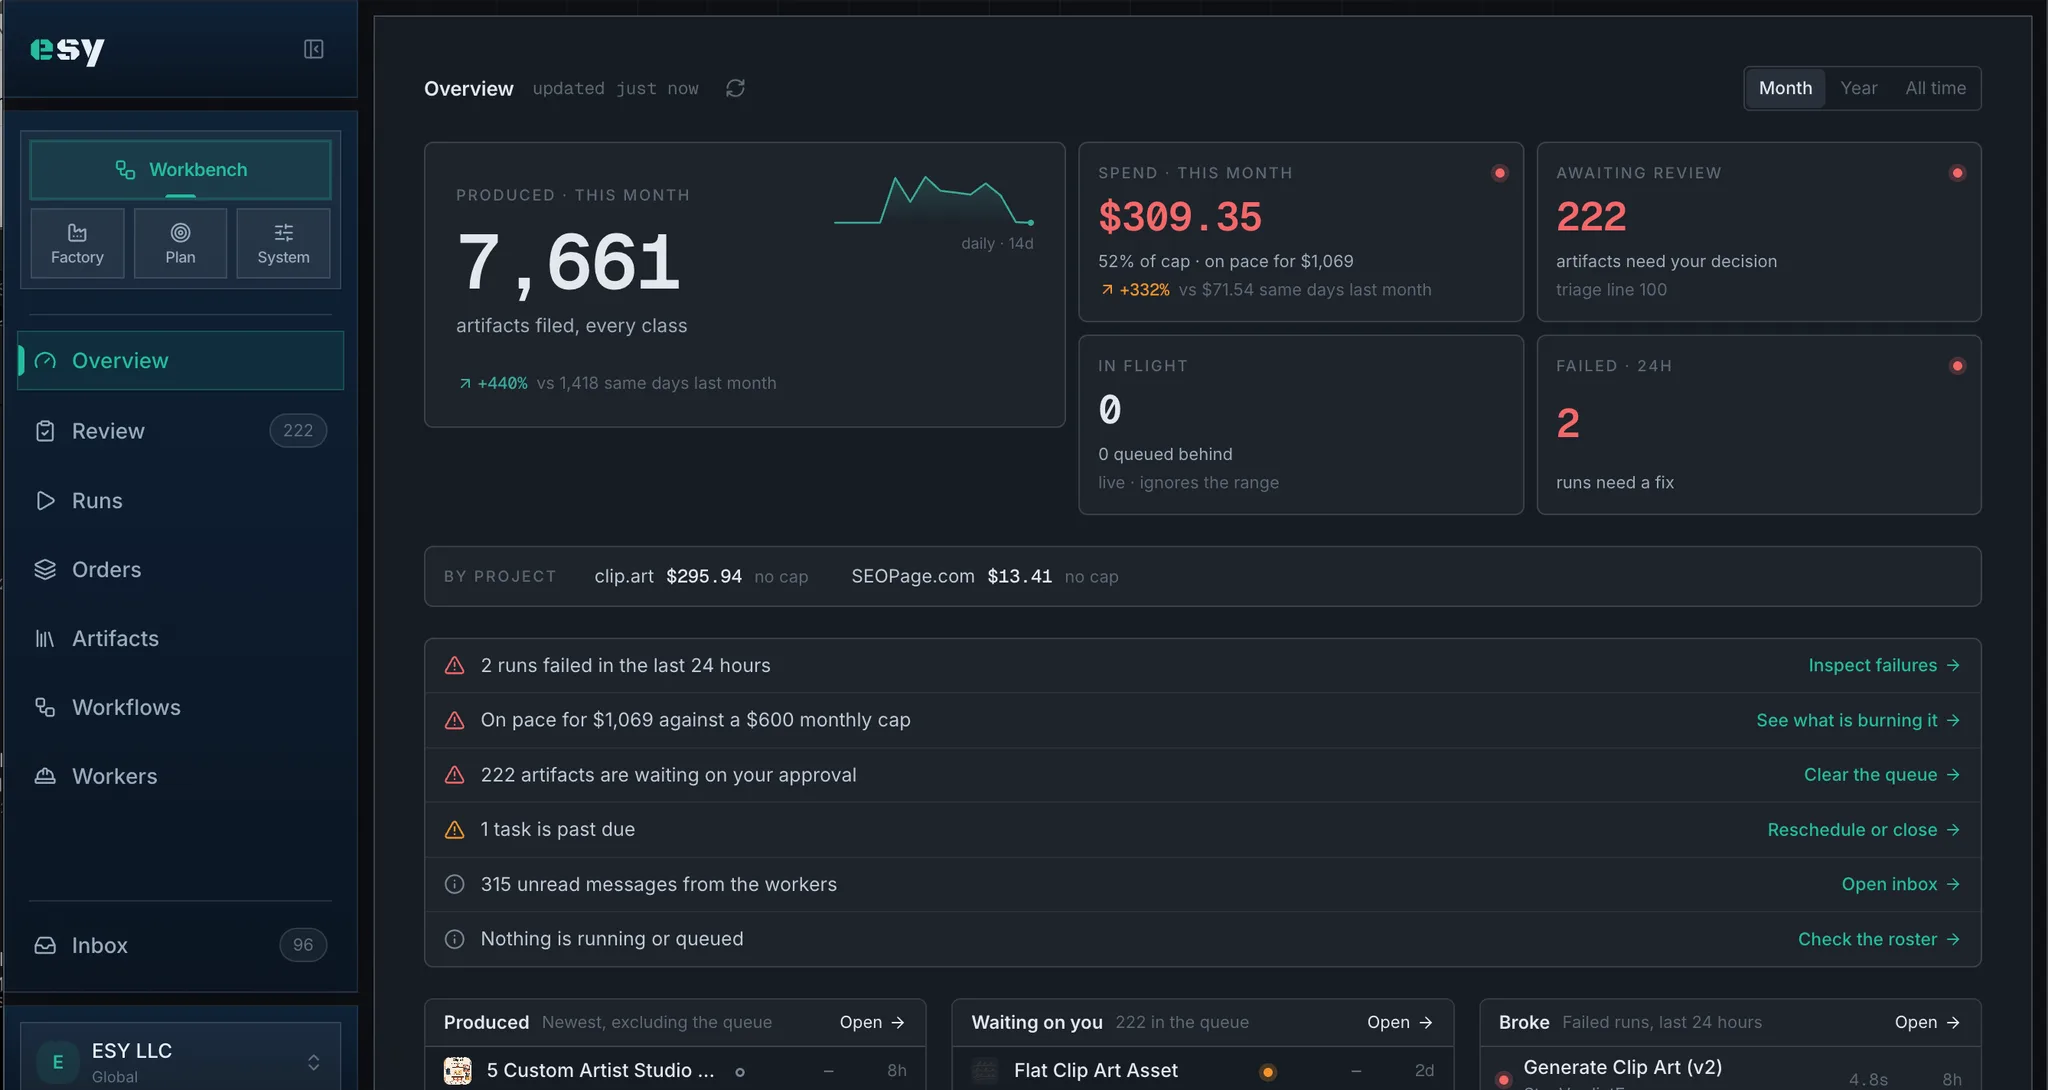
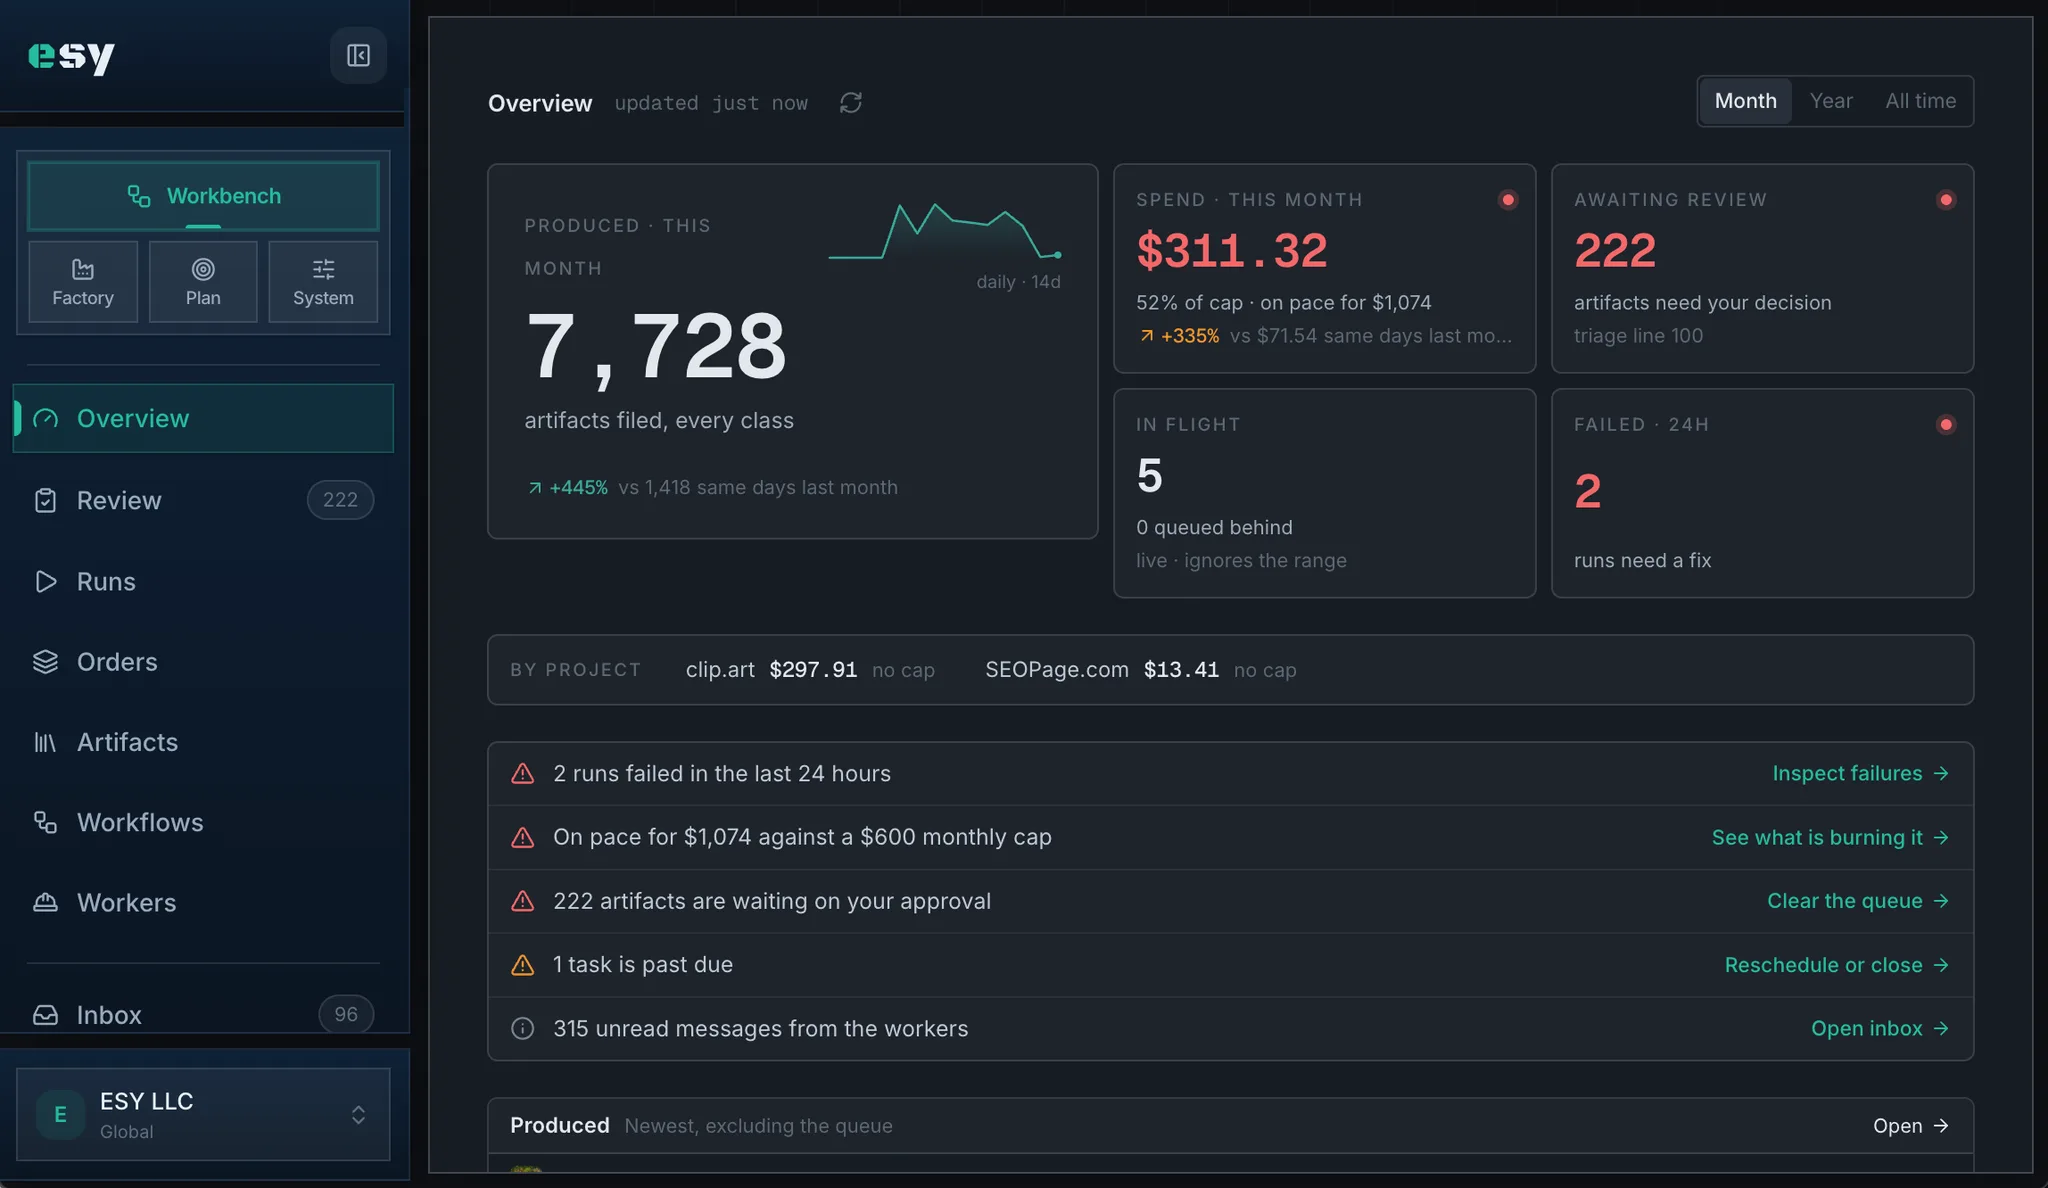
Hero shows the newer overview: 7,728 filed, five runs in flight
Same Overview screen, retaken. The source had a Collapse sidebar
tooltip baked over the header, so the header line was transplanted
from the previous capture (same app scale, pixel-identical background)
and the sidebar gradient rebuilt underneath it.

diff --git a/src/components/IntelligenceCircuitry/IntelligenceCircuitryPage.tsx b/src/components/IntelligenceCircuitry/IntelligenceCircuitryPage.tsx
@@ -411,9 +411,9 @@ const IntelligenceCircuitryPage: React.FC = () => {
                   <div className="ic-app-mockup-screen">
                     <Image
                       src="/images/app-dashboard-overview.webp"
-                      alt="Esy dashboard at app.esy.com: the ESY LLC overview showing 7,661 artifacts produced this month, spend against the monthly cap, 222 artifacts awaiting review, failed runs, and per-project spend for clip.art and SEOPage.com"
+                      alt="Esy dashboard at app.esy.com: the ESY LLC overview showing 7,728 artifacts produced this month, spend against the monthly cap, 222 artifacts awaiting review, five runs in flight, and per-project spend for clip.art and SEOPage.com"
                       width={2048}
-                      height={1090}
+                      height={1188}
                       className="ic-app-mockup-image"
                       priority
                       unoptimized
